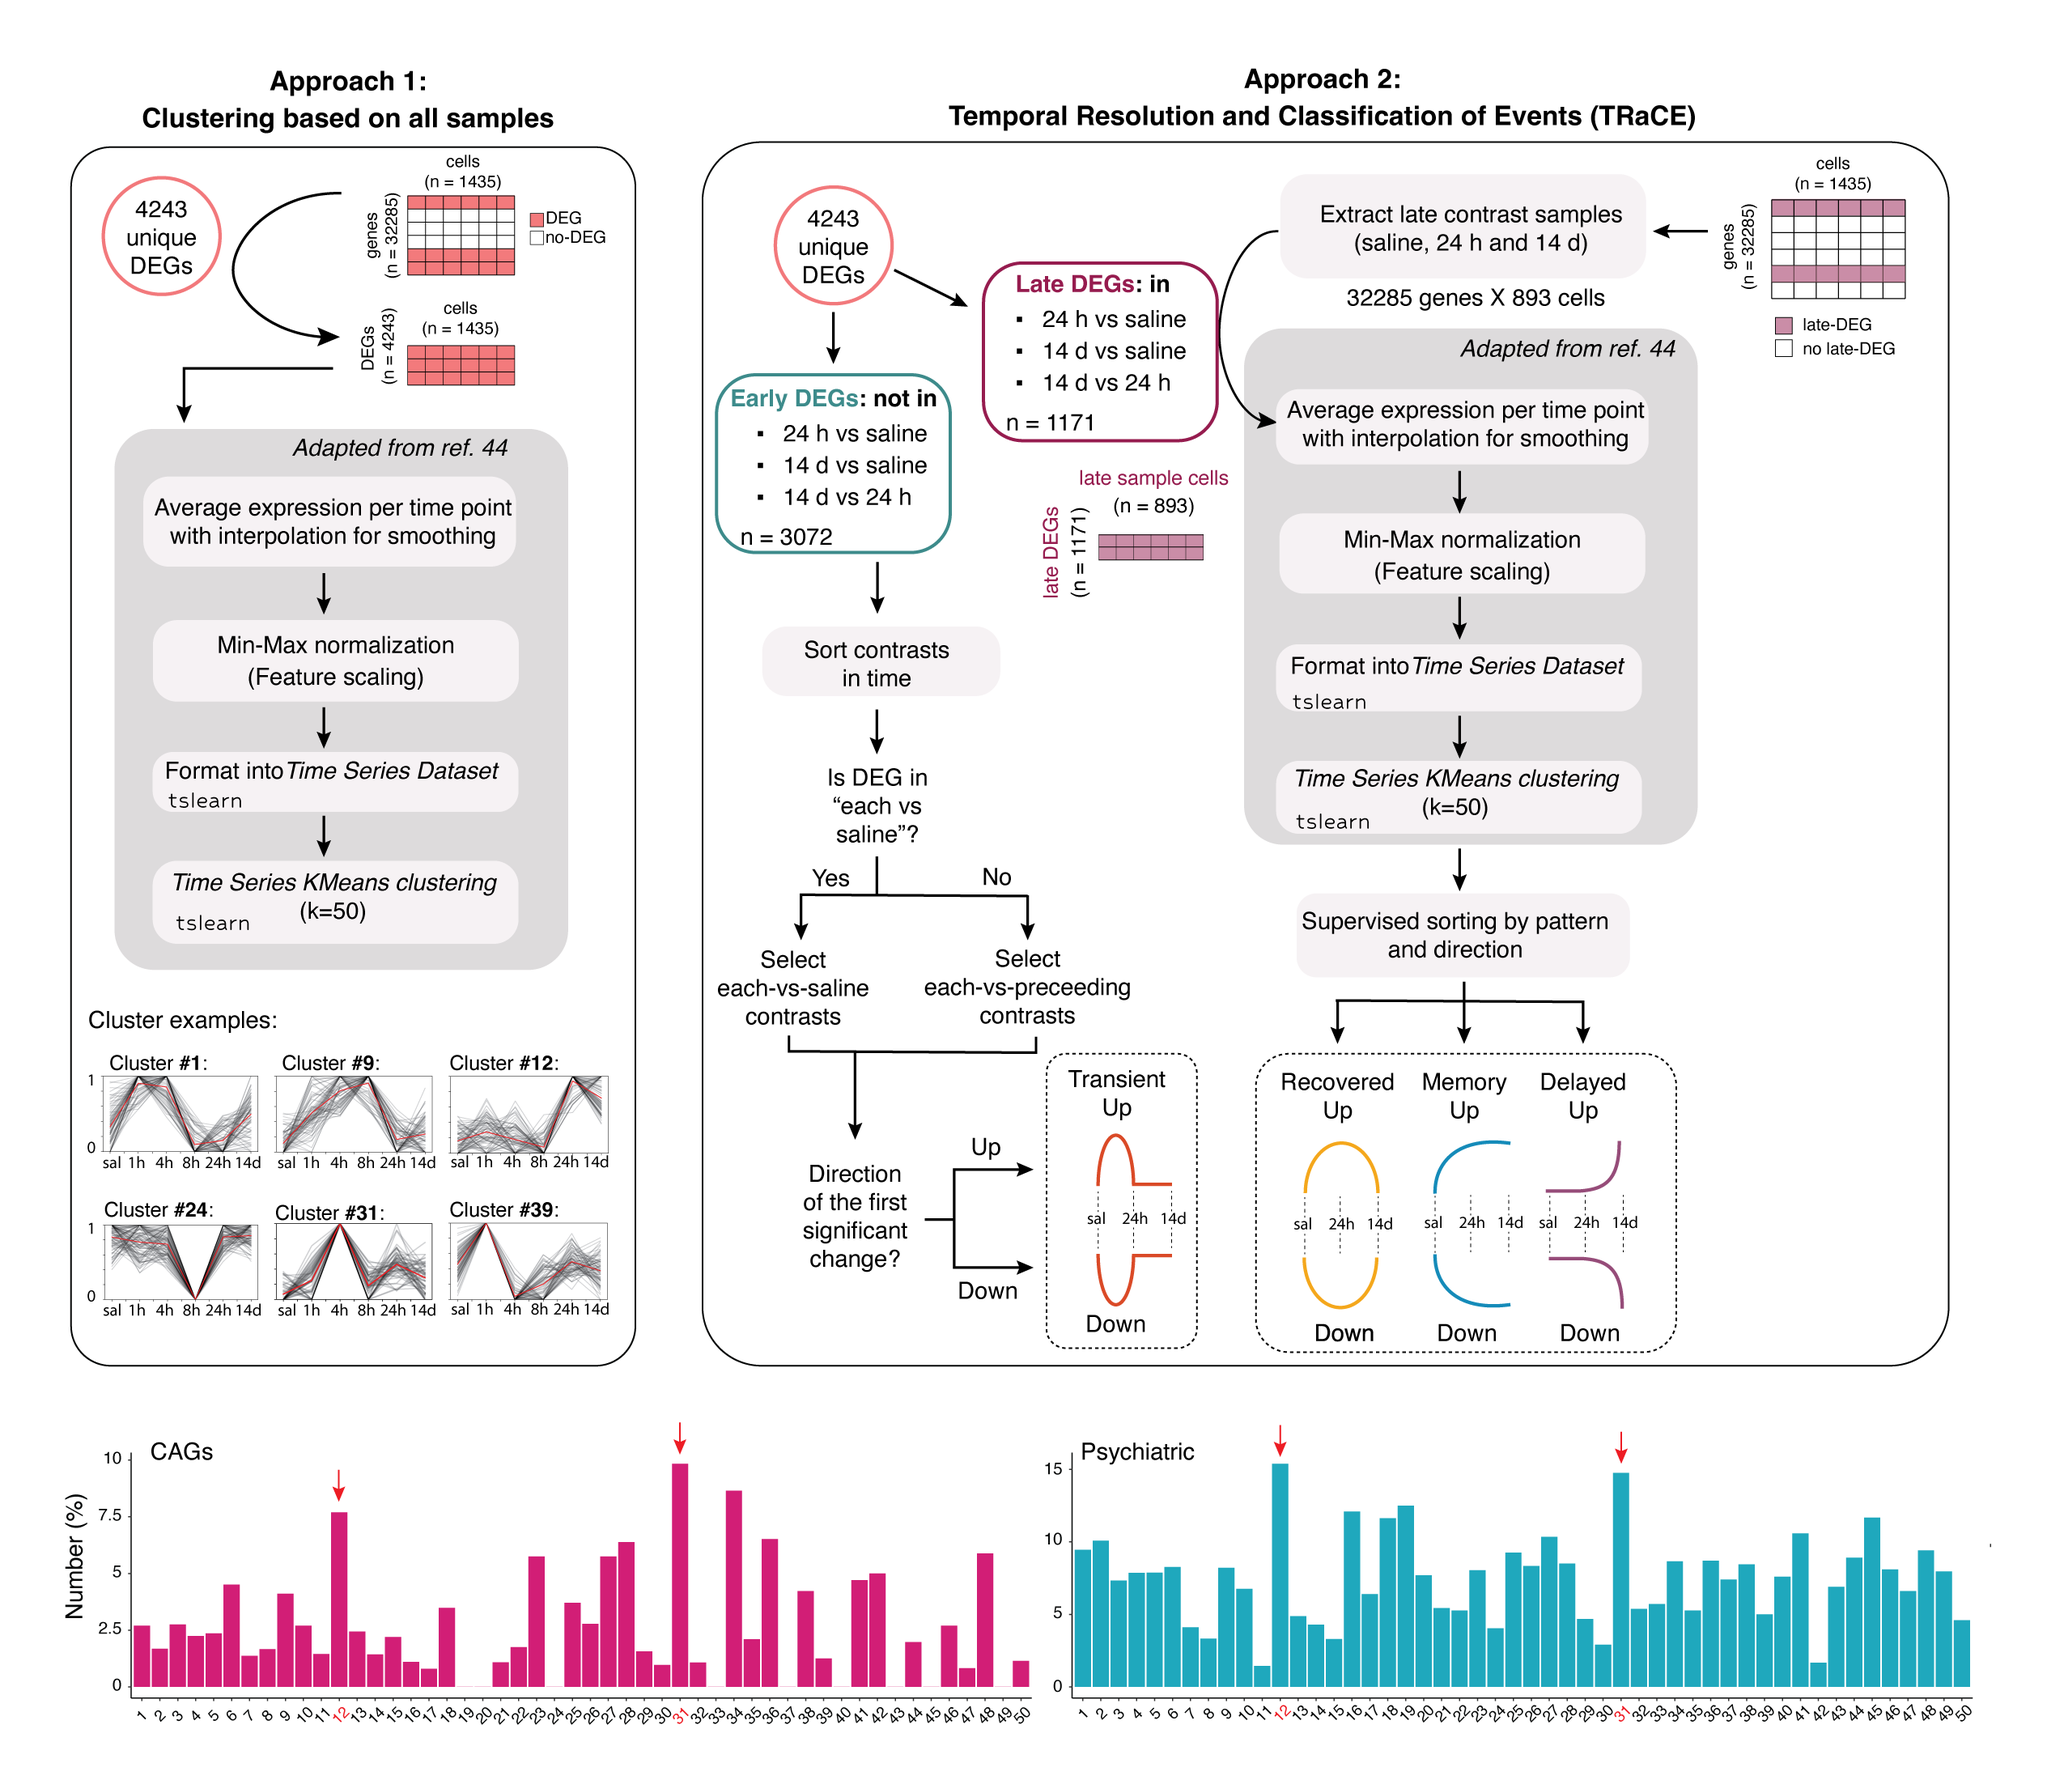
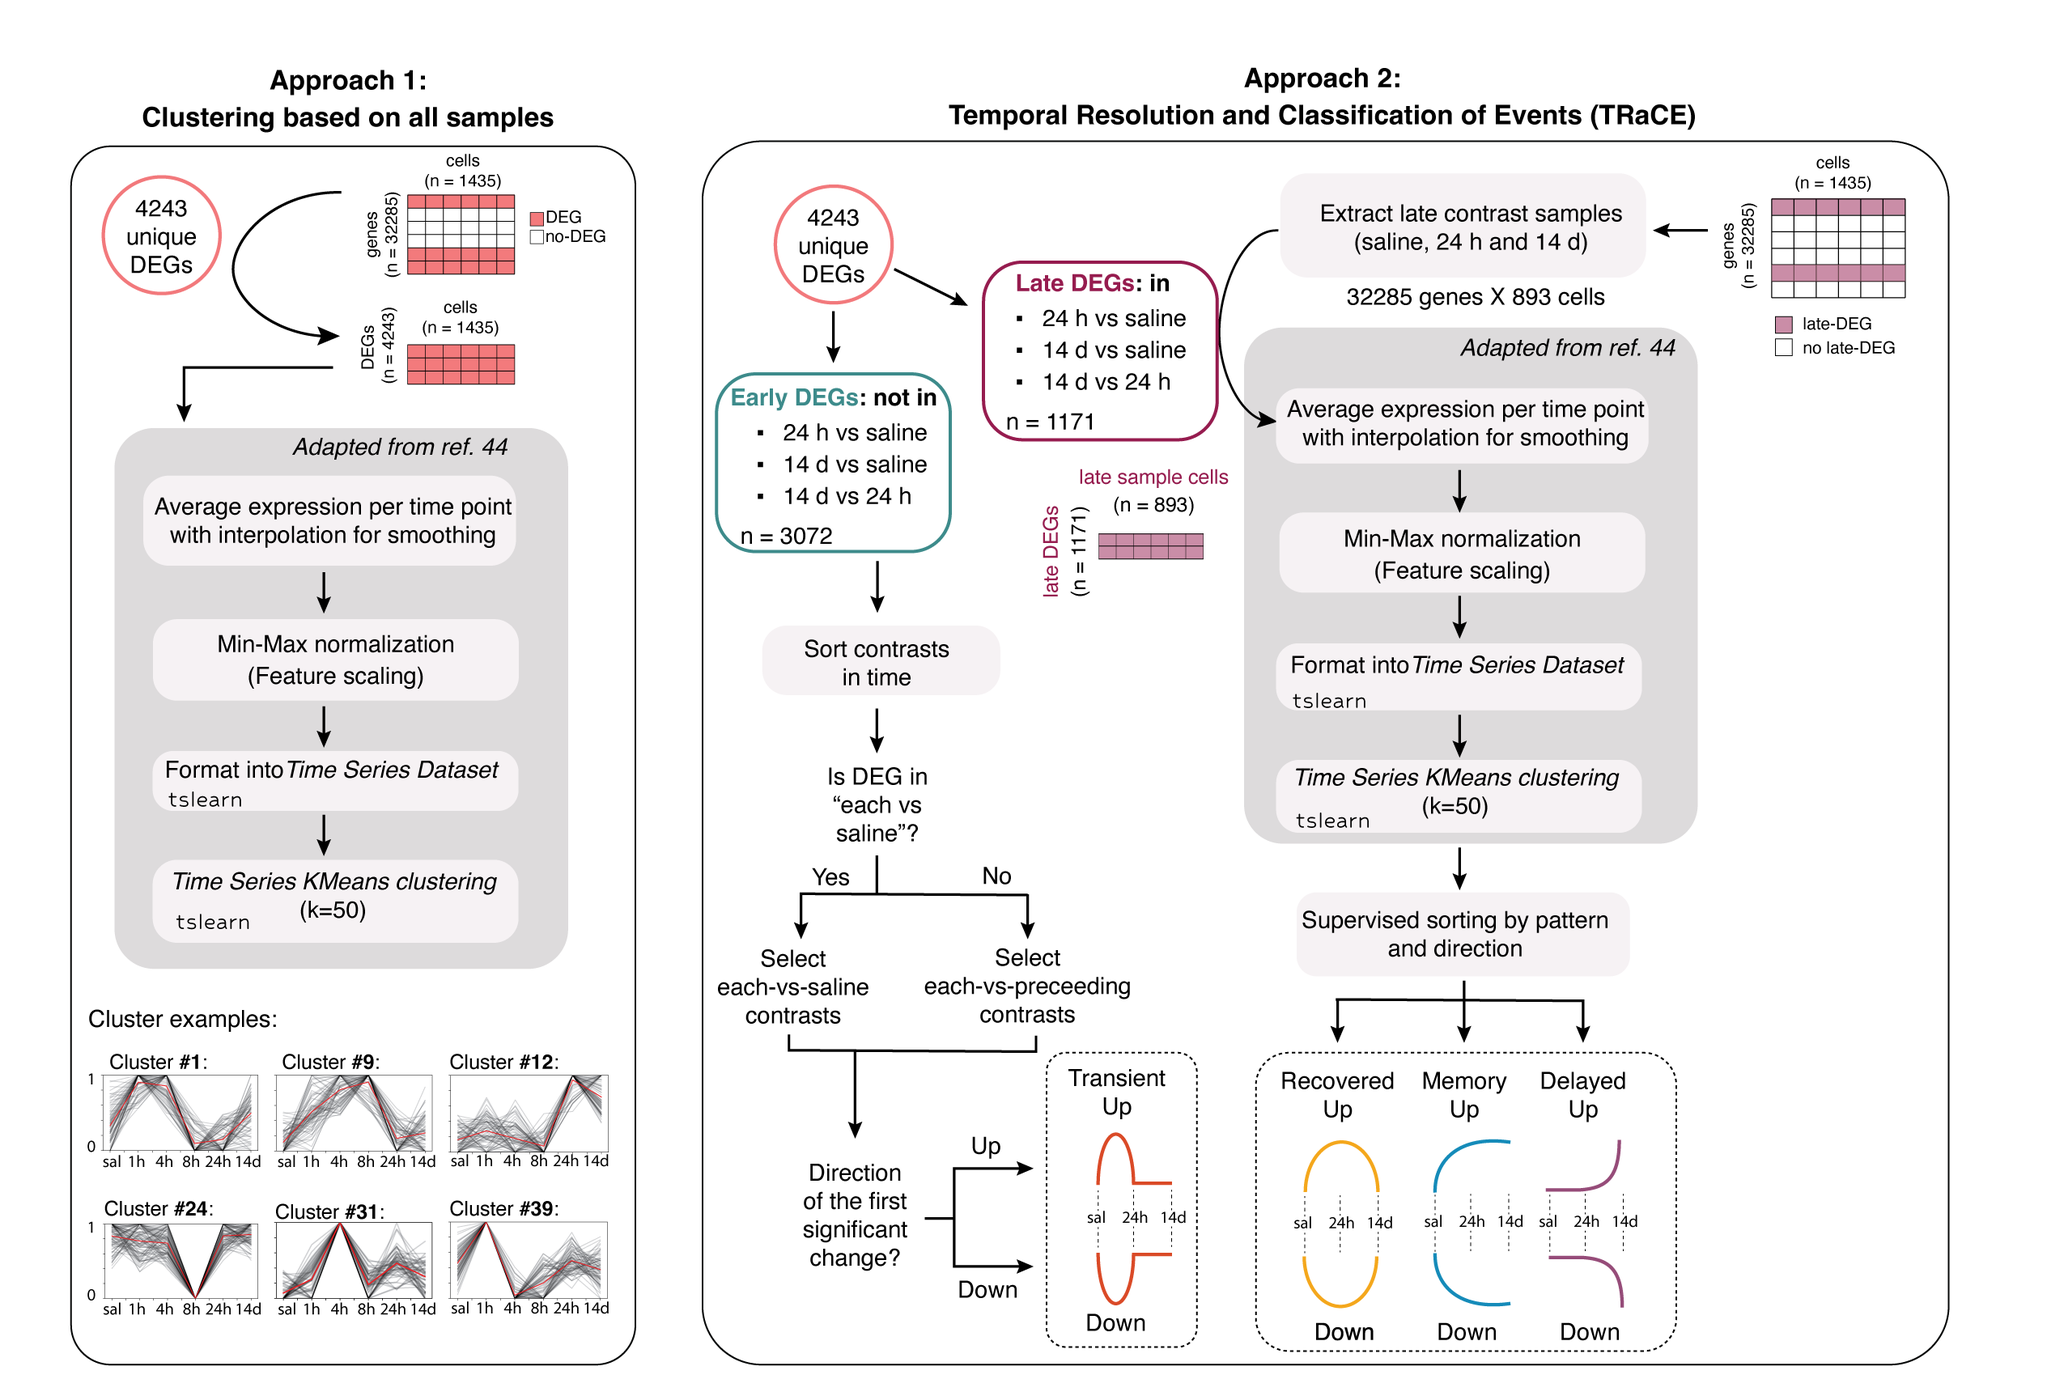
Add last section to the summary

Changed region(s): [[0.031, 0.0307, 0.9604, 0.9832]]

diff --git a/README.md b/README.md
@@ -21,10 +21,10 @@ This repository contains the following folders:
 - **`results`**: Contains non-figure outputs such as gene lists, differential analysis results, motif enrichments, and cluster assignments.
 
 
-## Summary of the project:
+## Summary of the project
 
 ### Overview  
-Experience-driven stimuli can induce lasting cellular memory through molecular mechanisms, and in the context of addiction, these processes are thought to underlie persistent maladaptive changes long after drug exposure. However, the temporal molecular cascades triggered by a single drug exposure remain poorly understood, particularly at the level of specific neuronal populations. In this project, I set out to investigate genome-wide changes in transcription and chromatin accessibility in dopamine neurons (DNs) from the ventral tegmental area (VTA) following a single cocaine exposure, using paired single-nucleus ATAC-seq and RNA-seq across immediate (0–8h), short-term (24h), and long-term (14d) time points.
+Drugs of abuse hijack the brain’s reward circuitry, reinforcing drug-taking behavior and driving addiction. Dopaminergic neurons (DNs) in the ventral tegmental area (VTA) are among the first to respond to cocaine exposure and play a central role in this process. While the effects of a single exposure are generally considered to be transient, it remains unclear whether a single cocaine dose can induce lasting gene regulatory changes. In this project, I investigated genome-wide changes in transcription and chromatin accessibility in dopamine neurons (DNs) from the VTA following a single cocaine exposure, using paired single-nucleus ATAC-seq and RNA-seq across immediate (0–8h), short-term (24h), and long-term (14d) time points.
 
 <p align="center">
   <img src="figures/summary/experimental_design.png" width="100%">
@@ -32,17 +32,17 @@ Experience-driven stimuli can induce lasting cellular memory through molecular m
   <em>Experimental design and sampling time points following single cocaine exposure</em>
 </p>
 
-**Transcriptional responses to cocaine exposure**  
-The results show that even a single exposure to cocaine is sufficient to induce widespread and long-lasting transcriptional changes in VTA DNs. In particular, genes that become upregulated are enriched for addiction-associated and psychiatric disorder–related genes, suggesting that early transcriptional activation may already engage pathways linked to long-term vulnerability. Several neuropeptides, including *Cartpt, Ucn, Penk,* and *Npy*, remain upregulated for up to two weeks, pointing to sustained alterations in neuronal signaling. Overall, these findings indicate that transcriptional activation is a dominant feature of the response to cocaine.
+### Transcriptional responses to cocaine exposure  
+We observed that even a single exposure to cocaine is sufficient to induce widespread and long-lasting transcriptional changes in VTA DNs. In particular, genes that become upregulated are enriched for addiction-associated and psychiatric disorder–related genes, suggesting that early transcriptional activation may already engage pathways linked to long-term vulnerability. Several neuropeptides, including *Cartpt, Ucn, Penk,* and *Npy*, remain upregulated for up to two weeks, pointing to sustained alterations in neuronal signaling.
 
 <p align="center">
   <img src="figures/summary/gex_heatmap.png" width="100%">
   <br>
-  <em>Gene expression patterns of DEGs in each vs. saline comparisons</em>
+  <em>Gene expression changes in VTA-DNs from each vs. saline comparisons</em>
 </p>
 
-**Temporal gene expression dynamics**  
-To better understand how these changes evolve over time, differential gene expression patterns were organized into distinct temporal trajectories, including Transient, Recovered, Memory, and Delayed responses. This framework reveals that early transcriptional changes are primarily associated with neuronal activation, plasticity, stress responses, and energy metabolism, whereas later changes reflect processes such as metabolic regulation, synaptic remodeling, and RNA processing. Together, these observations suggest a shift from rapid, activity-dependent responses toward more stable and long-lasting cellular reprogramming.
+### Temporal gene expression dynamics
+To capture how gene expression changes evolve over time, we applied two complementary approaches to structure temporal dynamics. First, we grouped all differentially expressed genes into clusters based on their expression trajectories, revealing diverse and coordinated temporal patterns following cocaine exposure. To improve interpretability, we then developed a simplified classification framework (TRaCE), which assigns genes into four categories: Transient, Recovered, Memory, and Delayed, based on when changes occur and whether they persist. This approach allows a clear distinction between short-term and long-lasting responses, highlighting that while many genes respond rapidly and return to baseline, a substantial subset exhibits sustained or delayed changes consistent with long-term molecular adaptation.
 
 <p align="center">
   <img src="figures/summary/kmeans_workflow.png" width="100%">
@@ -50,7 +50,7 @@ To better understand how these changes evolve over time, differential gene expre
   <em>Workflow and classification of gene expression trajectories across time</em>
 </p>
 
-**Chromatin accessibility dynamics and transcription factor activity**  
+### Chromatin accessibility dynamics and transcription factor activity  
 At the level of chromatin accessibility, dynamic changes over time point to distinct regulatory programs underlying these transcriptional responses. Regions that gain accessibility early after cocaine exposure are strongly enriched for AP-1 motifs and pioneer transcription factors, consistent with canonical activity-dependent chromatin remodeling. In contrast, later changes in accessibility are associated with transcription factors involved in oxidative stress regulation and synaptic remodeling. Regions that lose accessibility display more diverse patterns, including transient repression of activity-related motifs and longer-lasting reductions in factors linked to neuronal identity and plasticity, highlighting the complexity of regulatory repression mechanisms.
 
 <p align="center">
@@ -59,8 +59,8 @@ At the level of chromatin accessibility, dynamic changes over time point to dist
   <em>TF motif enrichment across dynamic chromatin accessibility classes</em>
 </p>
 
-**Epigenetic features and regulatory mechanisms**  
-Additional analyses provide insight into the epigenetic features associated with these changes. Regions gaining accessibility are enriched for GC-rich sequences, particularly in early and persistent response categories, suggesting a role for CpG-dependent regulatory mechanisms. Furthermore, integration with transcription factor target databases and published ChIP-seq datasets points to a disruption of Polycomb-mediated repression. Genes upregulated following cocaine exposure are enriched for PRC2 targets, and regions gaining accessibility overlap with H3K27me3-marked chromatin, supporting a model in which cocaine exposure leads to the derepression of previously silenced genomic regions.
+### Disruption of Polycomb-mediated repression
+Regions gaining accessibility are enriched for GC-rich sequences, particularly within Transient-, Recovered-, and Memory-Up DARs, suggesting that both early and persistent increases in chromatin accessibility are associated with CpG-rich regulatory elements. In contrast, regions with decreased accessibility exhibit more motif-specific patterns that are independent of GC content. To identify upstream regulatory mechanisms beyond chromatin accessibility, we performed enrichment analysis using the ChEA database, revealing a consistent overrepresentation of targets bound by PRC2 complex subunits among upregulated genes, with no such enrichment observed in downregulated genes. To further investigate this, we re-analyzed published H3K27me3 ChIP-seq data from in vivo midbrain dopamine neurons and found a significant positive association between H3K27me3 occupancy and gene upregulation following cocaine exposure. This relationship was also reflected at the chromatin level, as regions gaining accessibility were enriched for H3K27me3 marks. Together, these findings support a model in which cocaine exposure disrupts Polycomb-mediated repression, leading to the derepression of previously silenced genomic regions.
 
 <p align="center">
   <img src="figures/summary/PRC2_summary.png" width="100%">
@@ -68,5 +68,15 @@ Additional analyses provide insight into the epigenetic features associated with
   <em>A single cocaine exposure induces long-lasting upregulation of Polycomb targets</em>
 </p>
 
-**Conclusion**  
+### Long-lasting downregulation of DN identity genes
+Beyond global transcriptional changes, cocaine exposure also affects regulatory programs linked to neuronal identity. We observe a downregulation of genes associated with DN identity, which becomes most pronounced at 24h and remains evident up to 14 days after a single exposure. This is accompanied by reduced chromatin accessibility at binding sites of key identity transcription factors, such as FOXA1/2, suggesting a destabilization of the dopaminergic transcriptional program. Notably, downregulation of DN identity genes has been described as a feature of chronic cocaine exposure, indicating that even a single exposure may initiate molecular changes typically associated with prolonged drug use.
+
+<p align="center">
+  <img src="figures/summary/DN_identity.png" width="100%">
+  <br>
+  <em>One cocaine exposure induces long-lasting downregulation of VTA-DN marker genes.</em>
+</p>
+
+
+### Conclusion  
 Taken together, these findings demonstrate that a single cocaine exposure induces temporally structured transcriptional and epigenomic remodeling in VTA dopamine neurons. The response appears to transition from rapid neuronal activation to more persistent regulatory adaptations, involving both chromatin remodeling and the disruption of repressive mechanisms, which may contribute to long-term vulnerability to addiction.
